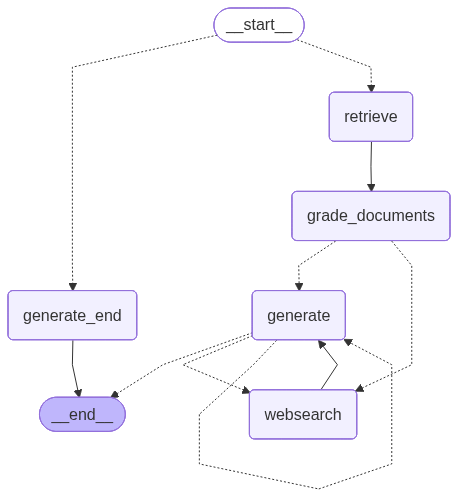
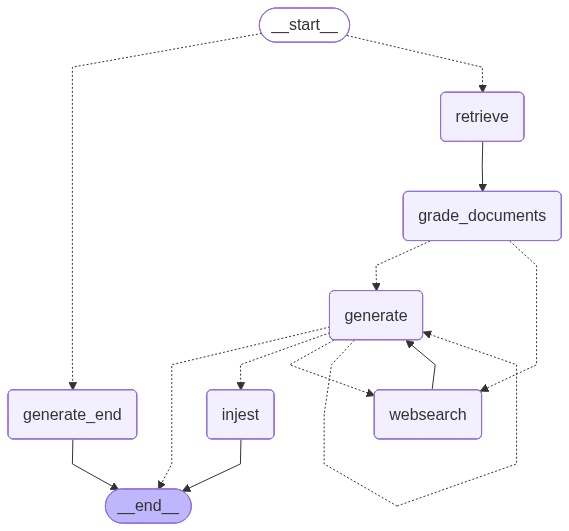
feat: add ability to injest web generated documents

diff --git a/graph/graph.py b/graph/graph.py
@@ -2,11 +2,12 @@ from dotenv import load_dotenv
 from langgraph.graph import END, StateGraph
 
 from .chains.router import router
-from .consts import GENERATE, GENERATE_END, GRADE_DOCUMENTS, RETRIEVE, WEBSEARCH
+from .consts import GENERATE, GENERATE_END, GRADE_DOCUMENTS, RETRIEVE, WEBSEARCH, INJEST
 from .nodes.generate import generate
 from .nodes.grade_documents import grade_documents
 from .nodes.retrieve import retrieve
 from .nodes.web_search import web_search
+from .nodes.injest import injest
 from .state import GraphState
 from .chains.answer_grader import answer_grader_chain
 from .chains.hallucination_grader import hallucination_grader_chain
@@ -59,7 +60,12 @@ def decide_to_websearch_or_conclude_or_retry(state: GraphState) -> GraphState:
         print("Answer is hallucinated, retrying generation.")
         return GENERATE
 
-
+def decide_to_injest_if_web_generated(state: GraphState) -> GraphState:
+    print("---DECIDE TO INJEST IF WEB GENERATED---")
+    if state["websearch"] and state["documents"]:
+        return INJEST
+    else:
+        return END
 workflow = StateGraph(GraphState)
 
 workflow.add_node(GENERATE_END, generate_end)
@@ -67,7 +73,7 @@ workflow.add_node(GENERATE, generate)
 workflow.add_node(RETRIEVE, retrieve)
 workflow.add_node(GRADE_DOCUMENTS, grade_documents)
 workflow.add_node(WEBSEARCH, web_search)
-
+workflow.add_node(INJEST, injest)   
 
 workflow.set_conditional_entry_point(
     route_question,
@@ -92,10 +98,16 @@ workflow.add_conditional_edges(
     decide_to_websearch_or_conclude_or_retry,
     {WEBSEARCH: WEBSEARCH, END: END, GENERATE: GENERATE},
 )
+
+workflow.add_conditional_edges(
+    GENERATE,
+    decide_to_injest_if_web_generated,
+    {INJEST: INJEST, END: END},
+)
 app = workflow.compile()
 
 app.get_graph().draw_mermaid_png(output_file_path="graph.png")
 
-result = app.invoke({"question": "What is Epistylis?"})
+result = app.invoke({"question": "What is a Walstad Tank?"})
 
 print(result["generation"])

diff --git a/graph/nodes/injest.py b/graph/nodes/injest.py
@@ -1,0 +1,15 @@
+
+
+from typing import Dict
+
+from langchain_protocol import Any
+
+from graph.state import GraphState
+from injestion import ingest_data
+
+
+def injest(state: GraphState) -> Dict[str, Any]:
+    print("---INGEST---")
+    documents = state["documents"]
+    ingest_data(documents)
+    return {**state}

diff --git a/graph/nodes/web_search.py b/graph/nodes/web_search.py
@@ -39,4 +39,4 @@ def web_search(state: GraphState) -> Dict[str, Any]:
     print("Rephrased Question for Web Search:", rephrased_question)
     results = web_search_tool.invoke({"query": rephrased_question})["results"]
     webresults = web_to_documents({"results": results})
-    return {"documents": [webresults], "question": question, "websearch_iteration": iteration}
+    return {**state, "documents": [webresults], "question": rephrased_question, "websearch_iteration": iteration}

diff --git a/graph/consts.py b/graph/consts.py
@@ -4,3 +4,4 @@ ROUTE_QUESTION = "route_question"
 GENERATE_END = "generate_end"
 GENERATE = "generate"
 WEBSEARCH = "websearch"
+INJEST = "injest"

diff --git a/graph/state.py b/graph/state.py
@@ -11,6 +11,7 @@ class GraphState(TypedDict):
         web_search: whether to add search
         documents: list of documents
         end_app: whether to directly end the app to continue to retrieve the document
+        websearch_iteration: number of times we've web searched
     """
 
     question: str